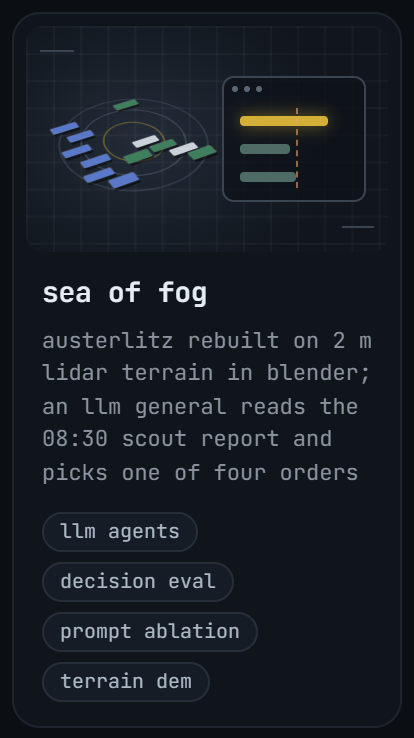
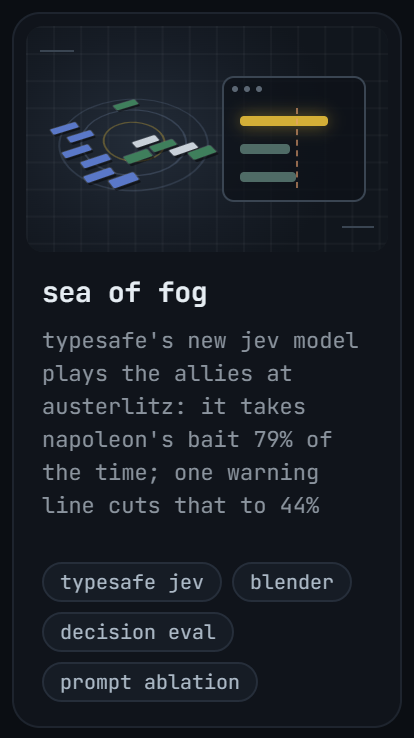
sea of fog card leads with jev; roomie is now center of mass
sea of fog: typesafe's jev takes napoleon's bait 79% of the time, 44% with one warning
line; tags typesafe jev, blender, decision eval, prompt ablation. roomie card retitled
center of mass and pointed at its new pages site. only the edited text changed on
either card; art, frame and other type are untouched from the design export.

diff --git a/README.md b/README.md
@@ -1,1 +1,1 @@
-<p><a href="https://github.com/search?q=author%3Adundysm+is%3Apr+is%3Amerged+-user%3Adundysm&type=pullrequests"><img src="covers/contributions.png" width="100%" align="top" alt="open source contributions: merged prs in inference serving, gpu clusters, training & kernels, robotics & sim"></a><a href="https://github.com/search?q=author%3Adundysm+is%3Apr+is%3Aopen+-user%3Adundysm&type=pullrequests"><img src="covers/in-progress.png" width="100%" align="top" alt="in progress: open prs upstream; built"></a><a href="https://github.com/dundysm/sea-of-fog"><img src="covers/sea-of-fog.png" width="25%" align="top" alt="sea of fog"></a><a href="https://dundysm.github.io/forgetting/"><img src="covers/forgetting.png" width="25%" align="top" alt="forgetting"></a><a href="https://github.com/dundysm/gaitkeeper"><img src="covers/gaitkeeper.png" width="25%" align="top" alt="gaitkeeper"></a><a href="https://github.com/dundysm/inference-doctor"><img src="covers/inference-doctor.png" width="25%" align="top" alt="inference doctor"></a><a href="https://github.com/dundysm/inference-under-pressure"><img src="covers/inference-under-pressure.png" width="25%" align="top" alt="inference under pressure"></a><a href="https://dundysm.github.io/roomie/"><img src="covers/roomie.png" width="25%" align="top" alt="roomie"></a><a href="https://chromewebstore.google.com/detail/retinaflow/pldbmpjgjikjadekeikikhomahjeplee"><img src="covers/retinaflow.png" width="25%" align="top" alt="retinaflow"></a><a href="https://dundysm.com"><img src="covers/spine-ai.png" width="25%" align="top" alt="spine ai"></a></p>
+<p><a href="https://github.com/search?q=author%3Adundysm+is%3Apr+is%3Amerged+-user%3Adundysm&type=pullrequests"><img src="covers/contributions.png" width="100%" align="top" alt="open source contributions: merged prs in inference serving, gpu clusters, training & kernels, robotics & sim"></a><a href="https://github.com/search?q=author%3Adundysm+is%3Apr+is%3Aopen+-user%3Adundysm&type=pullrequests"><img src="covers/in-progress.png" width="100%" align="top" alt="in progress: open prs upstream; built"></a><a href="https://github.com/dundysm/sea-of-fog"><img src="covers/sea-of-fog.png" width="25%" align="top" alt="sea of fog: typesafe's new jev model takes napoleon's bait at austerlitz 79% of the time; one warning line cuts that to 44%"></a><a href="https://dundysm.github.io/forgetting/"><img src="covers/forgetting.png" width="25%" align="top" alt="forgetting"></a><a href="https://github.com/dundysm/gaitkeeper"><img src="covers/gaitkeeper.png" width="25%" align="top" alt="gaitkeeper"></a><a href="https://github.com/dundysm/inference-doctor"><img src="covers/inference-doctor.png" width="25%" align="top" alt="inference doctor"></a><a href="https://github.com/dundysm/inference-under-pressure"><img src="covers/inference-under-pressure.png" width="25%" align="top" alt="inference under pressure"></a><a href="https://dundysm.github.io/center-of-mass/"><img src="covers/center-of-mass.png" width="25%" align="top" alt="center of mass"></a><a href="https://chromewebstore.google.com/detail/retinaflow/pldbmpjgjikjadekeikikhomahjeplee"><img src="covers/retinaflow.png" width="25%" align="top" alt="retinaflow"></a><a href="https://dundysm.com"><img src="covers/spine-ai.png" width="25%" align="top" alt="spine ai"></a></p>
